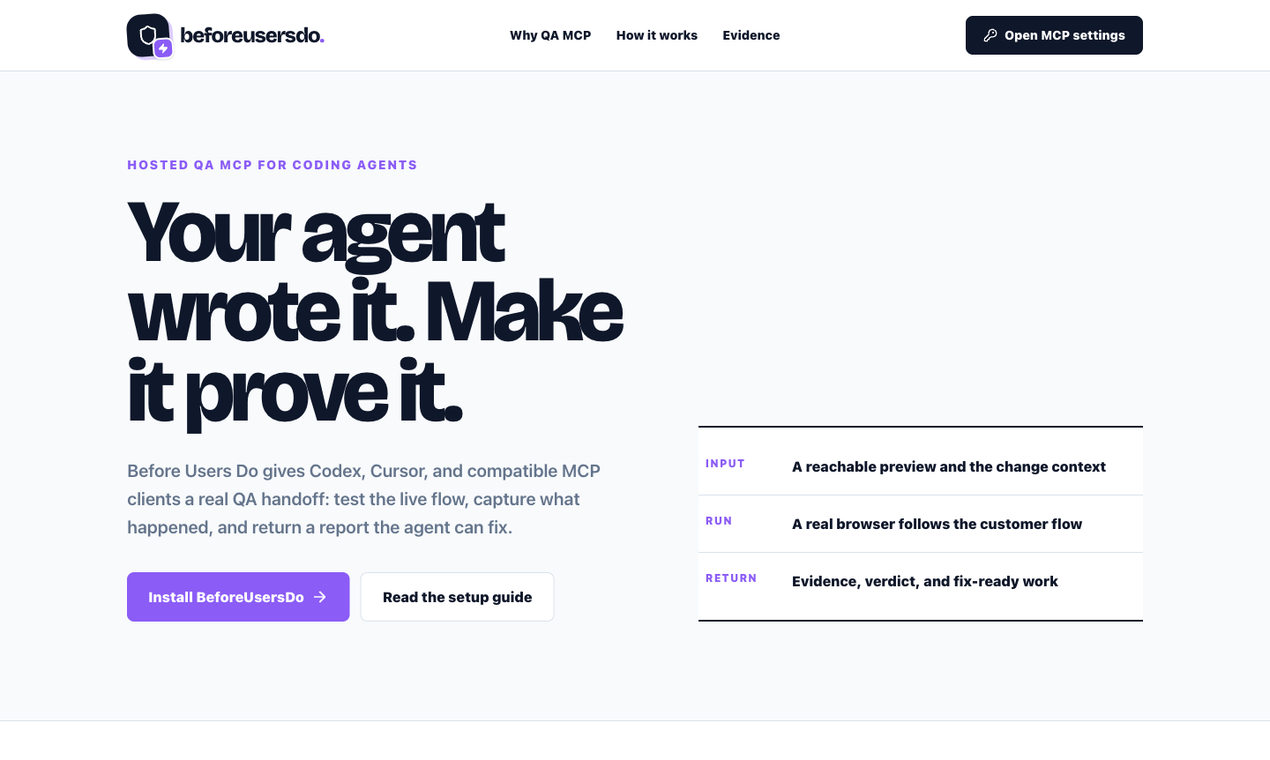
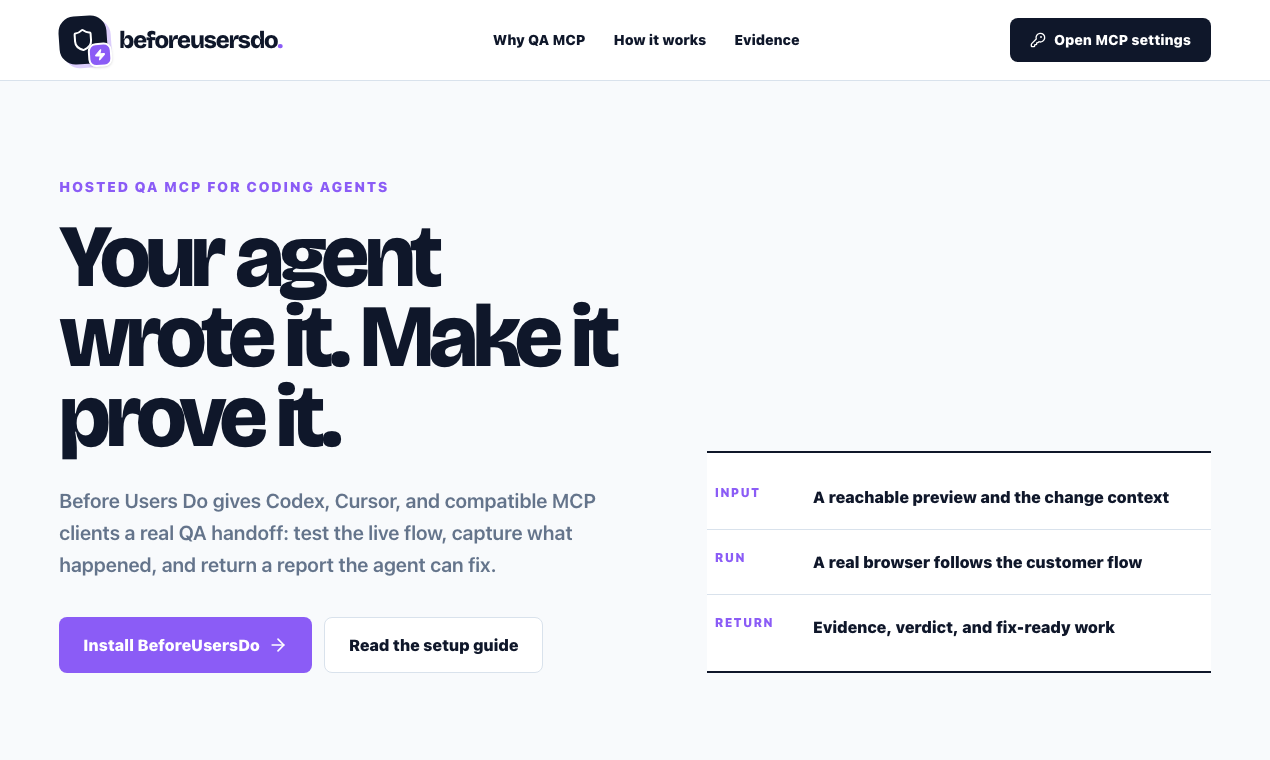
Use site graphics for Product Hunt

diff --git a/marketing/product-hunt-launch.md b/marketing/product-hunt-launch.md
@@ -18,7 +18,7 @@ and language that can improve the organic-search loop.
 - **Pricing tag:** Confirm from the live commercial offer in the Product Hunt composer before publishing. No public pricing was found in the inspected product path.
 - **Thumbnail:** `marketing/product-hunt/assets/product-hunt-thumbnail.png`
 - **Gallery image 1:** `marketing/product-hunt/assets/product-hunt-gallery-live-page.png`
-- **Gallery image 2:** `marketing/product-hunt/assets/product-hunt-gallery-evidence-board.png`
+- **Gallery image 2:** `marketing/product-hunt/assets/product-hunt-gallery-evidence-section.png`
 
 The tagline is 35 characters and the description is 195 characters, keeping
 both within the conservative limits in Product Hunt's current launch guidance.
@@ -28,8 +28,8 @@ Topic names are candidates and must be matched to the current composer options.
 
 1. **Live offer:** The real, live QA MCP page shows the agent-to-browser-to-proof
    handoff and sends builders into the measured install path.
-2. **Evidence board:** Screenshots, console failures, network proof, and a
-   fix-ready verdict come back in one QA report.
+2. **What comes back:** The real site explains the four concrete outputs:
+   screen evidence, runtime failures, network proof, and a usable verdict.
 
 ## Maker first-comment scaffold
 
@@ -84,18 +84,10 @@ a personal story or post the comment from a company account.
 ## Asset provenance
 
 The thumbnail reuses the existing navy shield and purple zap brand mark. The
-first gallery asset is a crop of the verified live `/qa-mcp` page. The second
-was generated with the built-in image-generation tool using only the existing
-navy, purple, warm-white, and restrained warning palette. It depicts the
-observed evidence types without customer claims, testimonials, usage metrics,
-or performance promises.
-
-The final generated-image prompt was: “Create a premium flat vector-like
-evidence board for a developer-tool launch, with one browser screenshot module,
-one console-error module, one failed-network-request module, and one fix-ready
-verdict module; use `#0f172a`, `#8b5cf6`, `#f8fafc`, muted slate, and restrained
-warning accents; no text, logos, people, robots, gradients, fake metrics, or
-watermarks.”
+two gallery assets are direct browser captures of the current `/qa-mcp` page:
+the live hero and the `#evidence` section. No generated illustration, new
+mascot, invented UI, customer claim, testimonial, metric, or performance
+promise remains in the launch package.
 
 ## Platform references
 

diff --git a/marketing/experiment-log.md b/marketing/experiment-log.md
@@ -17,7 +17,7 @@
 - Observation window: Seven days or 100 attributed landing visits, whichever is later
 - Continue if: At least one completed QA report, or at least five percent of attributed visitors choose the install CTA while activation volume is still small
 - Stop or change if: Product Hunt exposure sends no attributable visitors, or 100 attributed visitors produce no install clicks
-- Completed preparation: Listing copy, tracked destination, first-comment scaffold, 240 × 240 thumbnail, and two 1270 × 760 gallery assets
+- Completed preparation: Listing copy, tracked destination, first-comment scaffold, 240 × 240 site-brand thumbnail, and two 1270 × 760 gallery captures from the live QA MCP page
 - Approval gate: Confirm a personal maker account, the truthful pricing tag, the honest one-sentence maker story, any required terms, and external publication
 - Next action: Obtain explicit approval immediately before Product Hunt submission.
 
